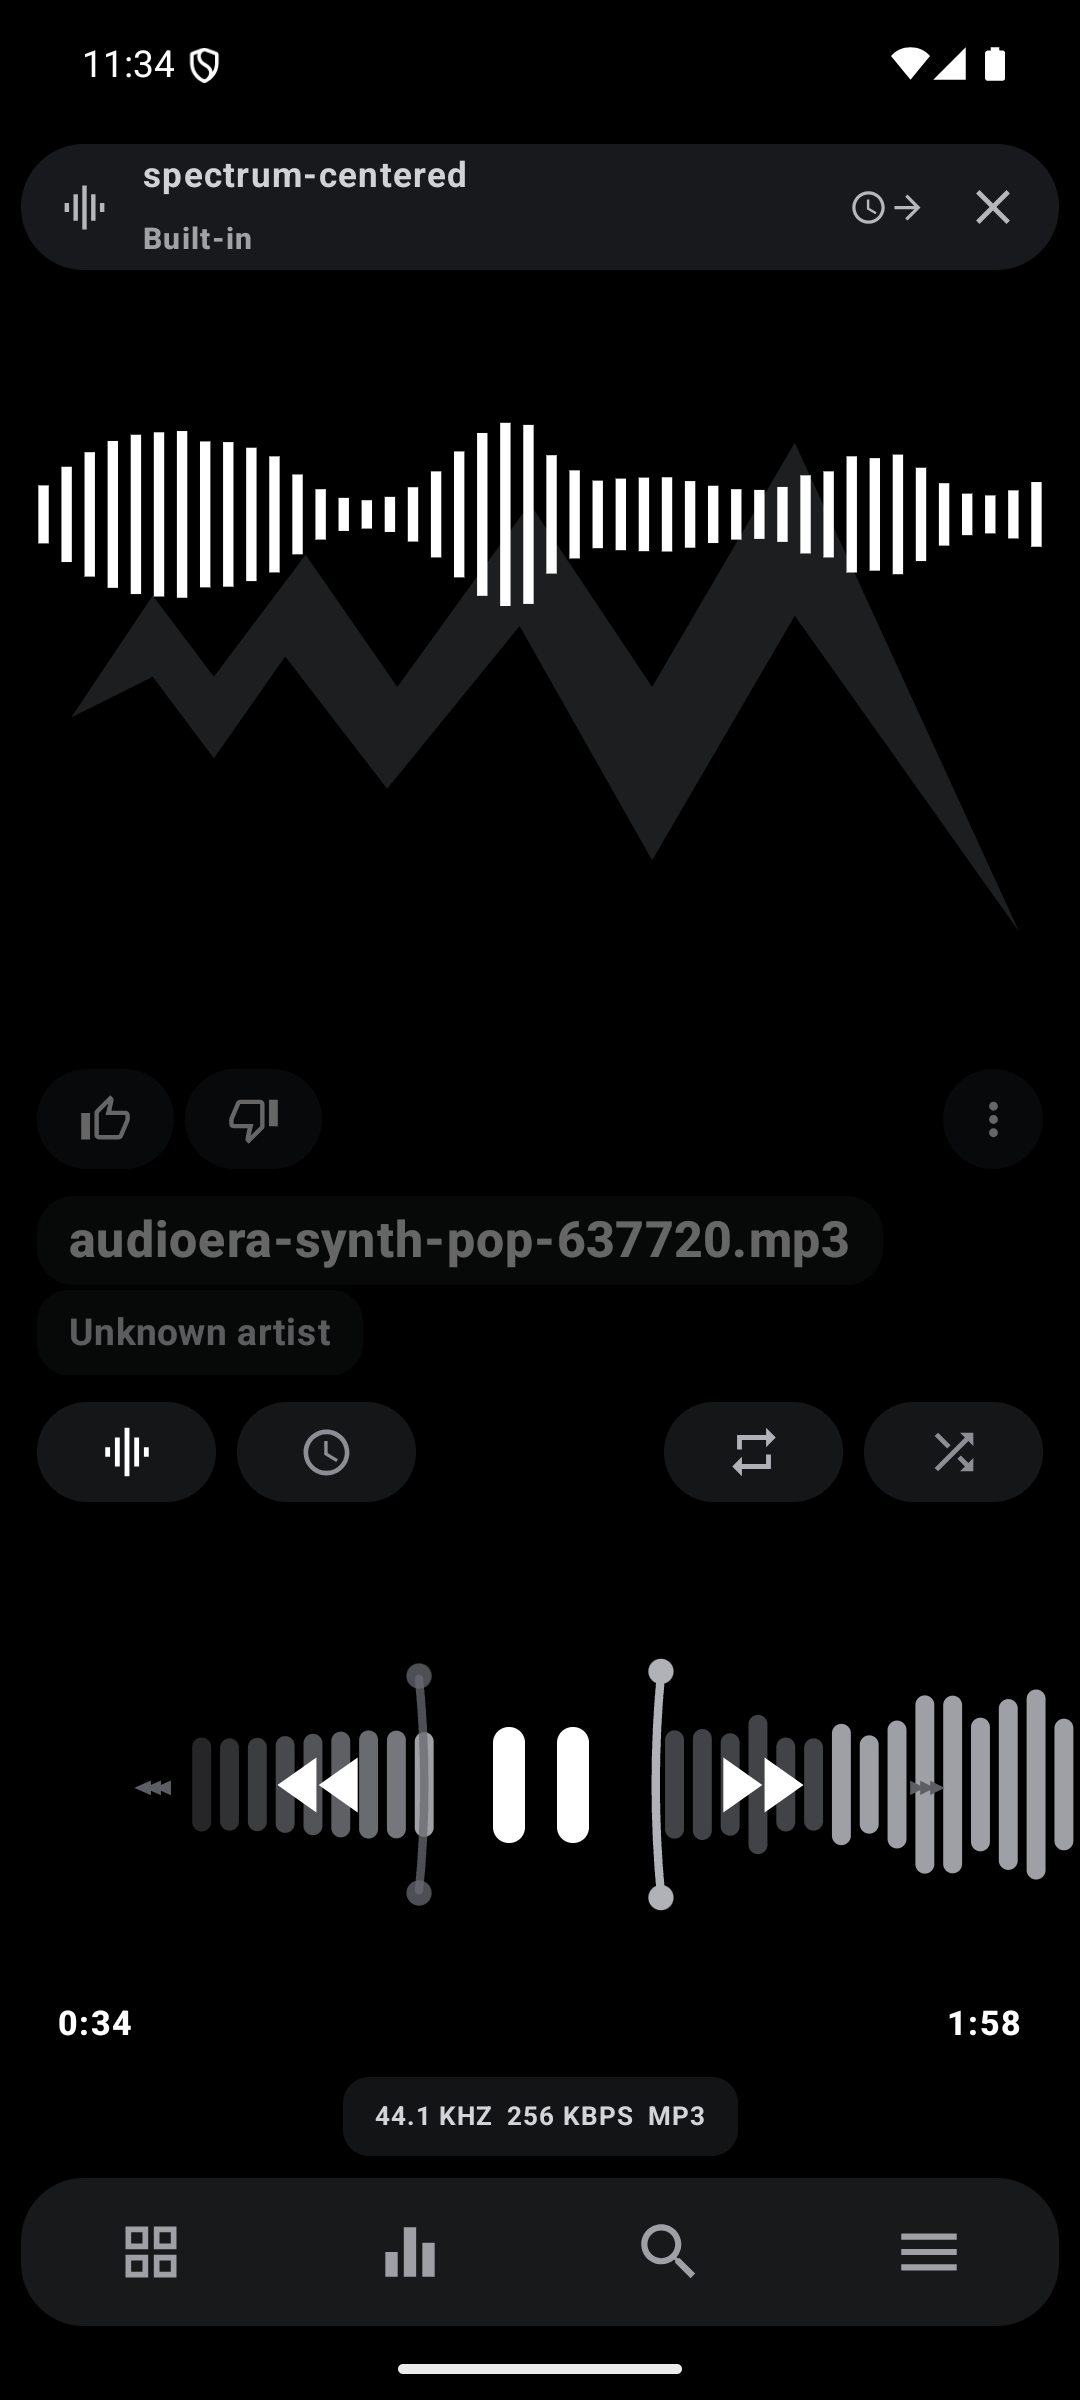
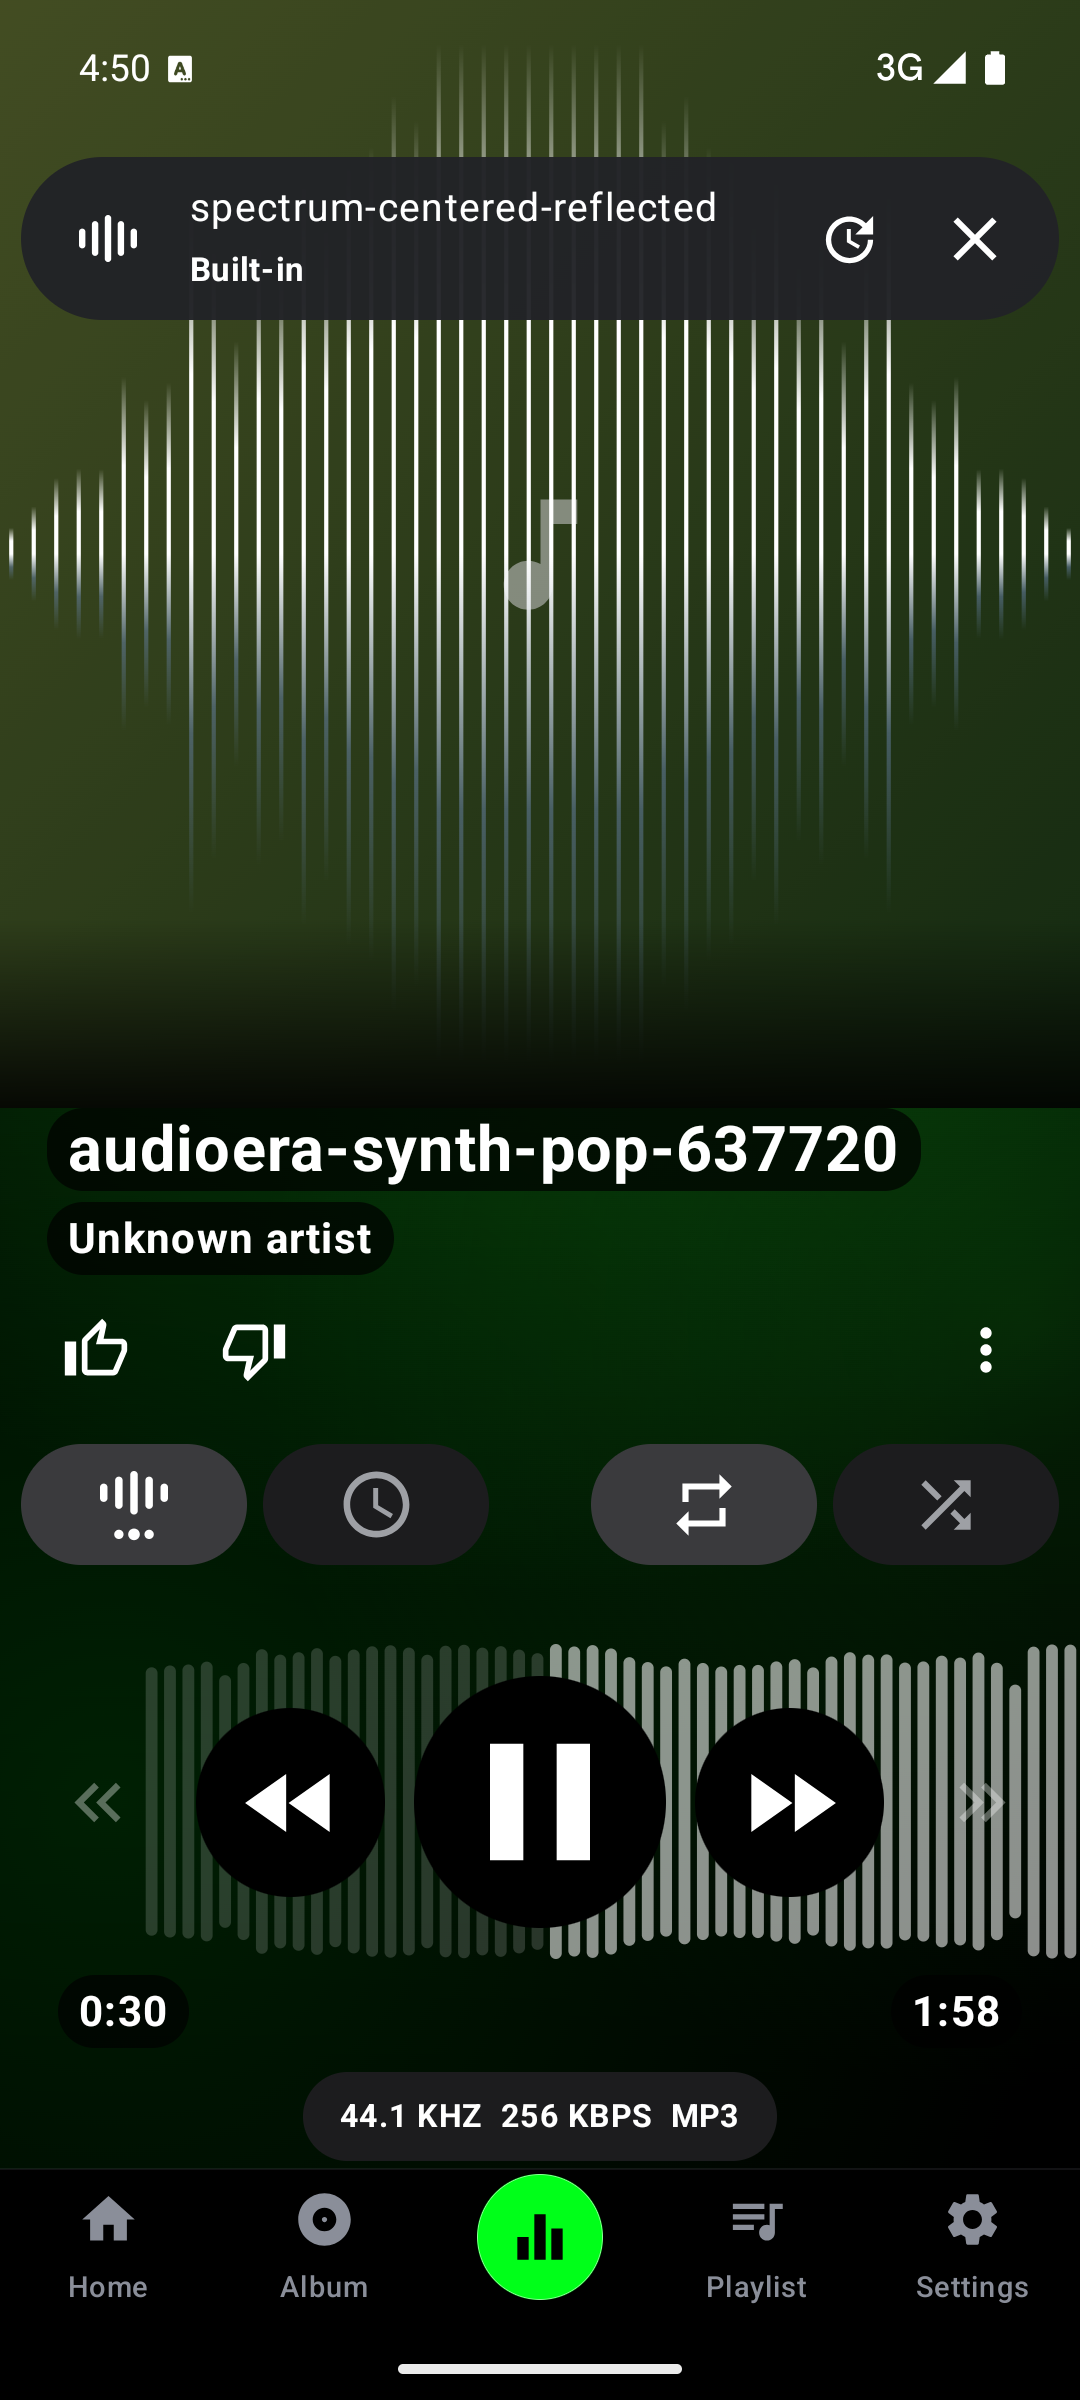
landing: new player screenshot and copy for the visualization redesign

diff --git a/landing/src/App.tsx b/landing/src/App.tsx
@@ -47,8 +47,8 @@ gsap.registerPlugin(ScrollTrigger)
 const WALKTHROUGH_STEPS = [
   {
     id: 'player',
-    label: 'Live FFT Spectrum & Waveform',
-    caption: 'Long-press cover art for real-time spectrum bars and waveform seek.',
+    label: 'Spectrum Visualizations',
+    caption: 'Fade or Full Screen visualization with 11 spectrum presets, and a waveform under the controls you drag to seek.',
   },
   {
     id: 'eq',
@@ -293,7 +293,7 @@ export default function App() {
 
   // Real emulator screenshots (clean spectrum player + EQ + Library + Light/Dark Settings)
   const screens = {
-    player: '/images/screen-player-light.png', // Clean spectrum + waveform, no toast overlay
+    player: '/images/screen-player-light.png', // Player with Fade visualization and waveform seekbar
     eq: '/images/screen-eq-light.png', // Live neon green EQ + spectrum bar
     library: '/images/screen-library-dark.png',
     settings: theme.isDark
@@ -944,8 +944,8 @@ export default function App() {
               },
               {
                 icon: Waves,
-                title: 'Cached waveform & live FFT',
-                desc: 'Decoded audio waveforms cache to disk for instant scrubbing, plus a live FFT spectrum overlay right over album art.',
+                title: 'Waveform seek & visualizations',
+                desc: 'Cached waveforms scroll under the transport for drag-to-seek, and the live spectrum runs over the cover or full screen with 11 presets that can cycle or shuffle.',
               },
               {
                 icon: ListMusic,
